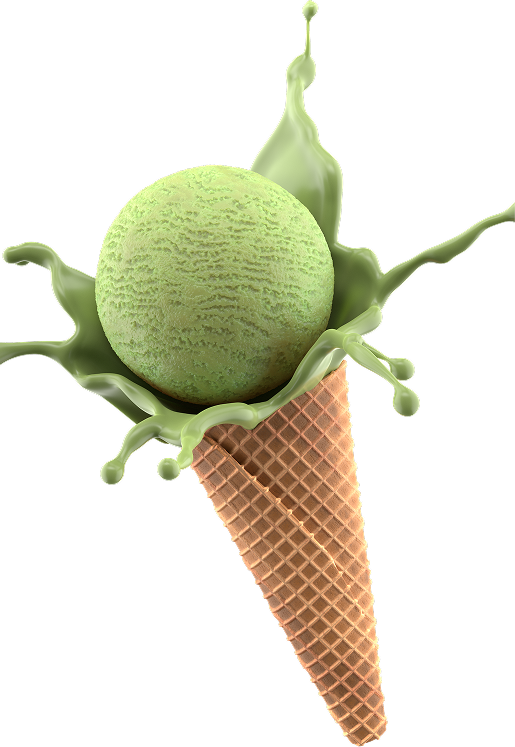
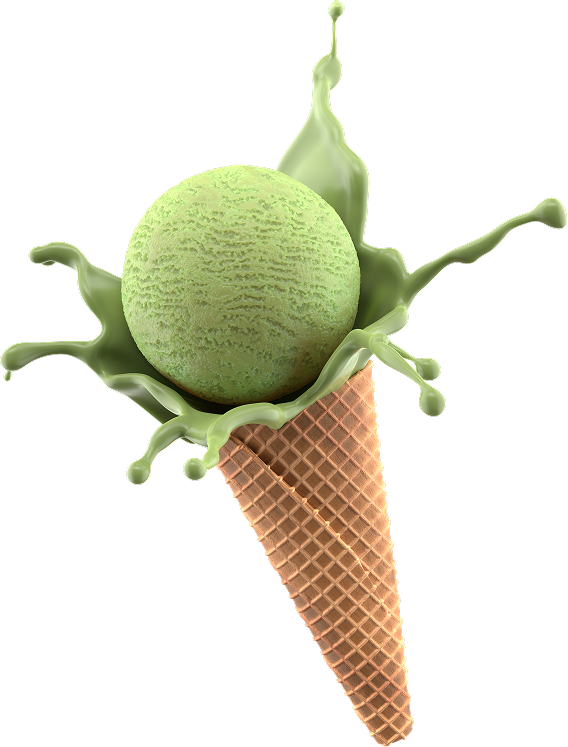
feat: :lipstick: Se agregó el boton de comprar

Changed region(s): [[0.0, 0.0, 1.0, 1.0]]

diff --git a/src/css/style.css b/src/css/style.css
@@ -10,7 +10,6 @@ body{
   grid-template-columns: repeat(10, 1fr);
   grid-template-rows: 95px 1fr;
   column-gap: 2%;
-  padding: 23px 1% 0px 1%;
   grid-template-areas: "logo logo menu menu menu menu menu menu opcion opcion "
                        "pre pre pre pre pre info info info info info"
 }
@@ -20,7 +19,7 @@ body{
   display: flex;
   justify-content: center;
   align-items: center;
-  padding-top: 23px;
+  padding: 23px 1% 0px 1%;
 }
 .div__logo img{
   width: 80%;
@@ -33,6 +32,7 @@ body{
   display: flex;
   justify-content: center;
   align-items: center;
+  padding: 23px 1% 0px 1%;
 }
 .div__menu ul{
   display: flex;
@@ -60,7 +60,6 @@ body{
   grid-area: pre;
   /* background: blueviolet; */
   display: flex;
-  width: 785px;
   height: 663px;
   top: 81px;
   position: relative;
@@ -68,38 +67,31 @@ body{
 .div__product > img{
   position: absolute;
   right: 0;
-  top: -15px;
 }
 .div__iceCreams img:nth-child(1),
 .div__iceCreams img:nth-child(2),
 .div__iceCreams img:nth-child(3){
   position: absolute;
-  height: 663px;
   object-fit: contain;
   bottom: 0;
 }
 .div__iceCreams img:nth-child(1){
   transform: rotate(85.74deg);
-  width: 514.86px;
-  height: 746.6px;
   z-index: 5;
-  left: 0;
-  bottom: -245px;
+  left: 40px;
+  bottom: -267px;
 }
 .div__iceCreams img:nth-child(2){
   transform: rotate(57.18deg);
-  width: 447.43px;
-  height: 832.89px;
   z-index: 10;
-  left: 30px;
+  left: 55px;
   bottom: -115px;
 }
 .div__iceCreams img:nth-child(3){
   transform: rotate(32.69deg);
-  width: 447.43px;
-  height: 753.54px;
   z-index: 5;
-  left: -135px;
+  left: -120px;
+  top: -85px;
 }
 .div__info{
   grid-area: info;
@@ -107,9 +99,9 @@ body{
   display: flex;
   flex-direction: column;
   align-items: center;
-  width: 628px;
+  width: 650px;
   height: 294px;
-  top: 220px;
+  top: 204px;
   position: relative;
 }
 .div__info h1{
@@ -131,3 +123,90 @@ body{
   font-size: 24px;
   margin: 0px 0px 0px 24px;
 }
+.div__info .div__button{
+  position: absolute;
+  bottom: -72px;
+  right: 0;
+}
+.div__info .div__button a{
+  background: var(--color-4);
+  color: var(--color-2);
+  font-family: "Inder-Regular";
+  font-size: 24px;
+  text-decoration: none;
+  padding: 10px 20px;
+  border-radius: 10px;
+}
+/************ Media ************/
+@media screen and (min-width: 1200px){
+  .div__product{
+    grid-area: pre;
+    /* background: blueviolet; */
+    display: flex;
+    height: 663px;
+    top: 81px;
+    position: relative;
+  }
+  .div__product > img{
+    position: absolute;
+    right: 0;
+  }
+  .div__iceCreams img:nth-child(1),
+  .div__iceCreams img:nth-child(2),
+  .div__iceCreams img:nth-child(3){
+    position: absolute;
+    object-fit: contain;
+    bottom: 0;
+  }
+  .div__iceCreams img:nth-child(1){
+    transform: rotate(85.74deg);
+    z-index: 5;
+    width: 430px;
+    left: 40px;
+    bottom: -155px;
+  }
+  .div__iceCreams img:nth-child(2){
+    transform: rotate(57.18deg);
+    z-index: 10;
+    width: 360px;
+    left: 35px;
+    bottom: -50px;
+  }
+  .div__iceCreams img:nth-child(3){
+    transform: rotate(32.69deg);
+    z-index: 5;
+    width: 360px;
+    left: -100px;
+    top: 0px;
+  }
+  .div__info{
+    grid-area: info;
+    /* background: green; */
+    display: flex;
+    flex-direction: column;
+    align-items: center;
+    width: 500px;
+    height: 294px;
+    top: 204px;
+    position: relative;
+  }
+  .div__info h1{
+    display: flex;
+    color: var(--color-2);
+    font-family: "Inter_28pt-Bold";
+    font-size: 55px;
+  }
+  .div__info span{
+    display: flex;
+    color: var(--color-2);
+    font-family: "Lalezar-Regular";
+    font-size: 32px;
+  }
+  .div__info p{
+    display: flex;
+    color: var(--color-2);
+    font-family: "Inder-Regular";
+    font-size: 23px;
+  }
+}
+/******************************/

diff --git a/index.html b/index.html
@@ -35,6 +35,9 @@
         <span>FREE DELIVERY</span>
         <p>Lorem ipsum dolor sit amet, consectetur adipiscing elit, sed do eiusmod tempor incididunt ut labore et dolore magna aliqua. Ut enim ad minim veniam, quis nostrud exercitation ullamco laboris nisi ut aliquip 
             ex ea commodo consequat. </p>
+        <div class="div__button">
+            <a href="#">BUY NOW</a>
+        </div>
     </div>
 </body>
 </html>
